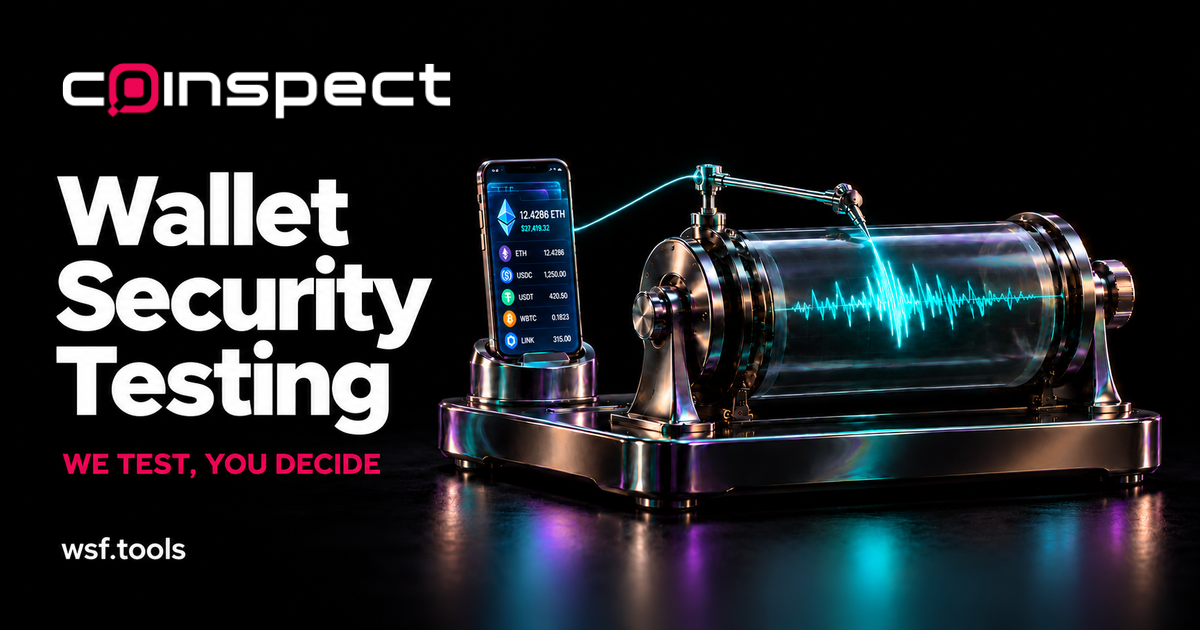
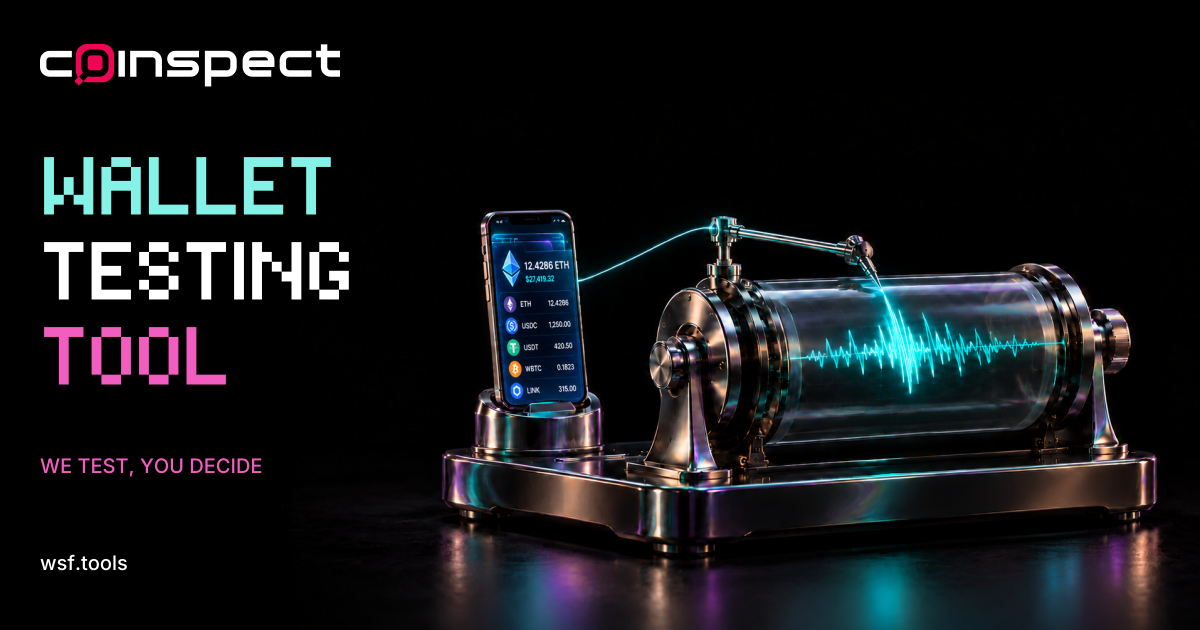
Use WSR typography and colors in social preview

diff --git a/index.html b/index.html
@@ -13,12 +13,12 @@
     <meta property="og:image:type" content="image/png" />
     <meta property="og:image:width" content="1200" />
     <meta property="og:image:height" content="630" />
-    <meta property="og:image:alt" content="Coinspect Wallet Security Testing. We test, you decide. A wallet connected to a seismograph." />
+    <meta property="og:image:alt" content="Wallet Testing Tool. We test, you decide. Coinspect logo and a wallet connected to a seismograph." />
     <meta name="twitter:card" content="summary_large_image" />
     <meta name="twitter:title" content="Wallet Security Testing dApp" />
     <meta name="twitter:description" content="Choose a check. Follow the steps. See how your wallet handles it." />
     <meta name="twitter:image" content="https://wsf.tools/social-preview.png" />
-    <meta name="twitter:image:alt" content="Coinspect Wallet Security Testing. We test, you decide. A wallet connected to a seismograph." />
+    <meta name="twitter:image:alt" content="Wallet Testing Tool. We test, you decide. Coinspect logo and a wallet connected to a seismograph." />
     <link rel="icon" type="image/svg+xml" href="/icon.svg" />
     <script id="theme-bootstrap">
       (function(){try{var t=localStorage.getItem('theme');document.documentElement.classList.toggle('dark',t!=='light');}catch(e){document.documentElement.classList.add('dark');}})();
